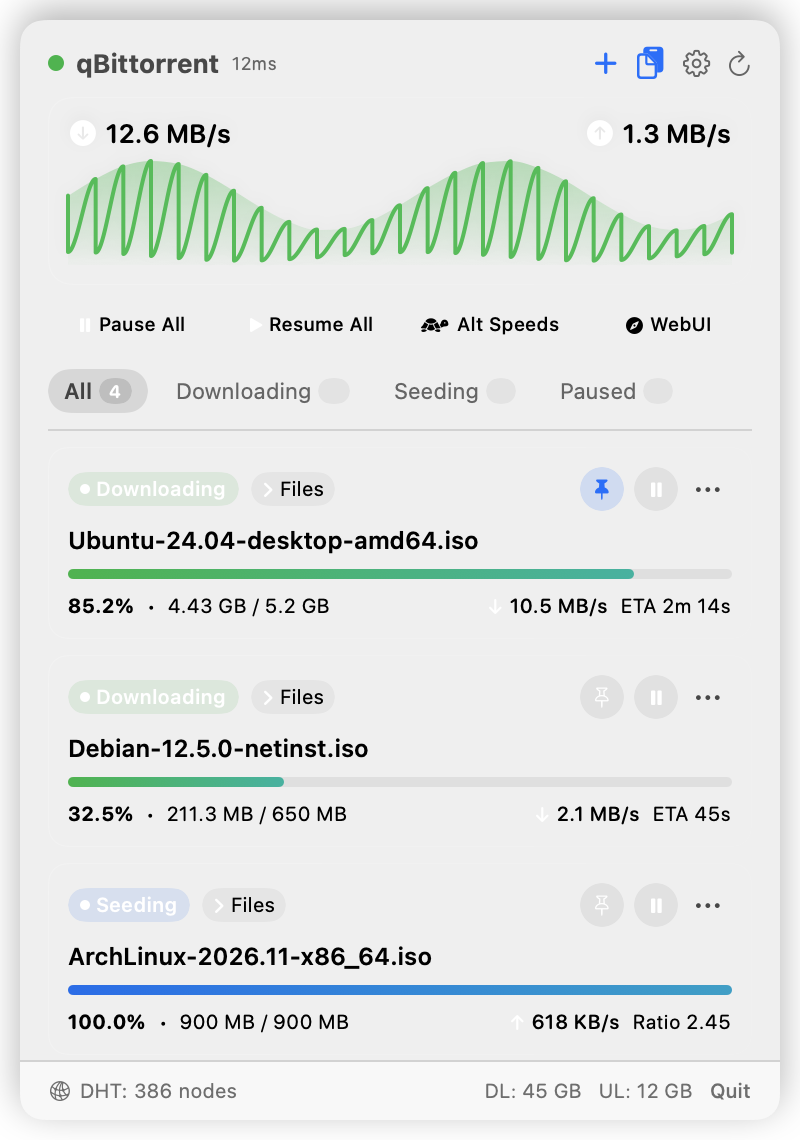
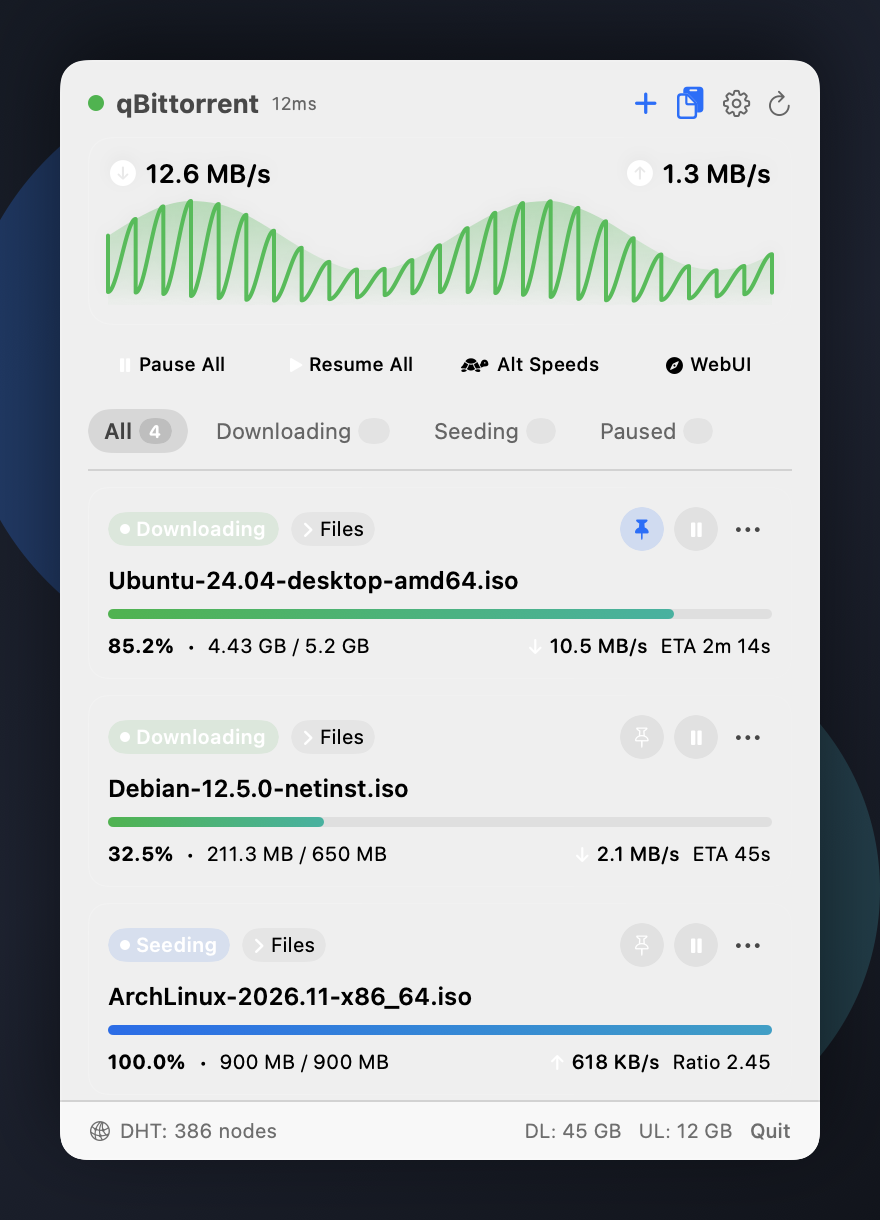
docs: Update preview_popover image with macOS desktop backdrop to showcase Liquid Glass refraction

diff --git a/Sources/QBMenubar/Snapshot.swift b/Sources/QBMenubar/Snapshot.swift
@@ -117,13 +117,43 @@ public struct SnapshotGenerator {
             .frame(width: 780, height: 560)
         saveView(settingsView, width: 780, height: 560, to: "\(outputDir)/preview_settings.png")
         
-        // 3. Snapshot PopoverContentView
-        let popoverView = PopoverContentView(viewModel: viewModel)
-            .frame(width: 380, height: 550)
-            .clipShape(RoundedRectangle(cornerRadius: 12, style: .continuous))
-            .shadow(color: .black.opacity(0.3), radius: 10, y: 5)
-            .padding(10)
-        saveView(popoverView, width: 400, height: 570, to: "\(outputDir)/preview_popover.png")
+        // 3. Snapshot PopoverContentView over macOS ambient backdrop to showcase Liquid Glass refraction
+        let popoverPresentation = ZStack {
+            LinearGradient(
+                colors: [
+                    Color(red: 0.08, green: 0.11, blue: 0.16),
+                    Color(red: 0.12, green: 0.15, blue: 0.22),
+                    Color(red: 0.06, green: 0.08, blue: 0.12)
+                ],
+                startPoint: .topLeading,
+                endPoint: .bottomTrailing
+            )
+            .overlay {
+                Circle()
+                    .fill(Color.blue.opacity(0.28))
+                    .frame(width: 300, height: 300)
+                    .blur(radius: 70)
+                    .offset(x: -90, y: -120)
+
+                Circle()
+                    .fill(Color.teal.opacity(0.22))
+                    .frame(width: 260, height: 260)
+                    .blur(radius: 60)
+                    .offset(x: 90, y: 140)
+            }
+
+            PopoverContentView(viewModel: viewModel)
+                .frame(width: 380, height: 550)
+                .clipShape(RoundedRectangle(cornerRadius: 13, style: .continuous))
+                .overlay(
+                    RoundedRectangle(cornerRadius: 13, style: .continuous)
+                        .strokeBorder(Color.white.opacity(0.14), lineWidth: 1)
+                )
+                .shadow(color: .black.opacity(0.5), radius: 22, x: 0, y: 12)
+        }
+        .frame(width: 440, height: 610)
+        
+        saveView(popoverPresentation, width: 440, height: 610, to: "\(outputDir)/preview_popover.png")
     }
     
     private static func saveView<V: View>(_ view: V, width: CGFloat, height: CGFloat, to path: String) {
